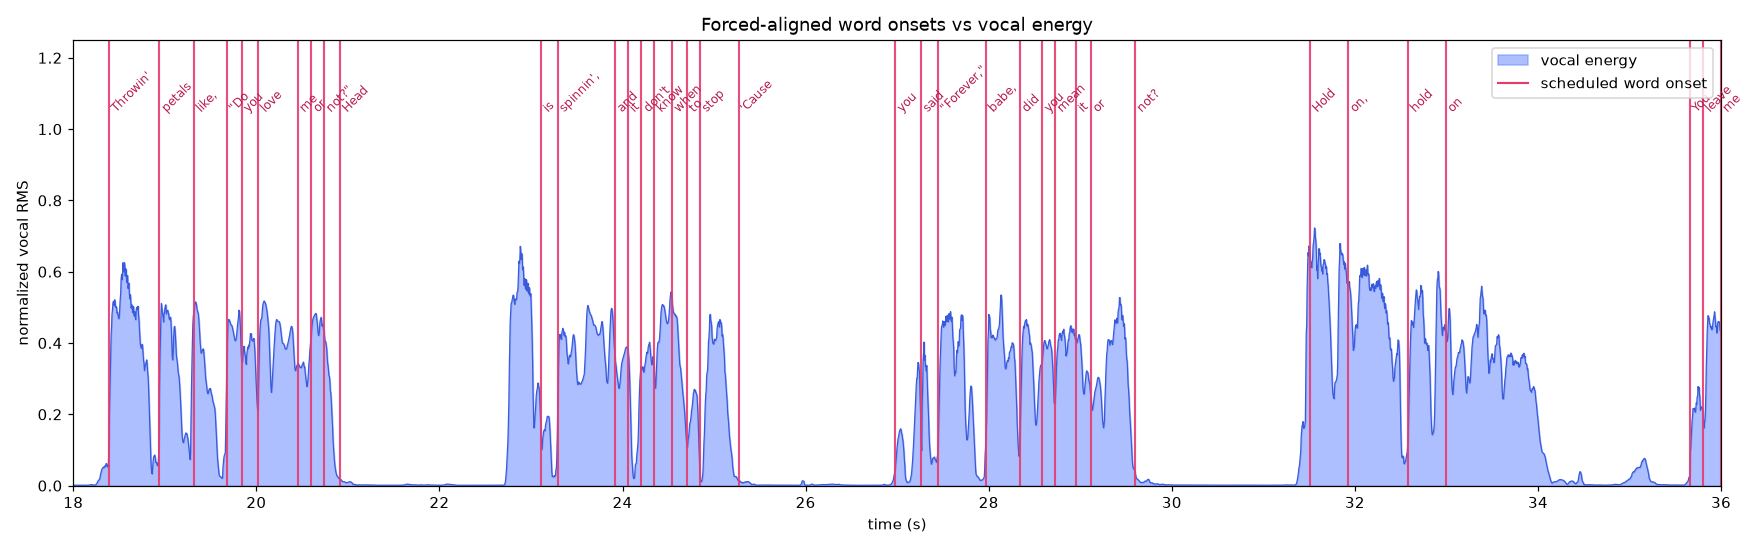
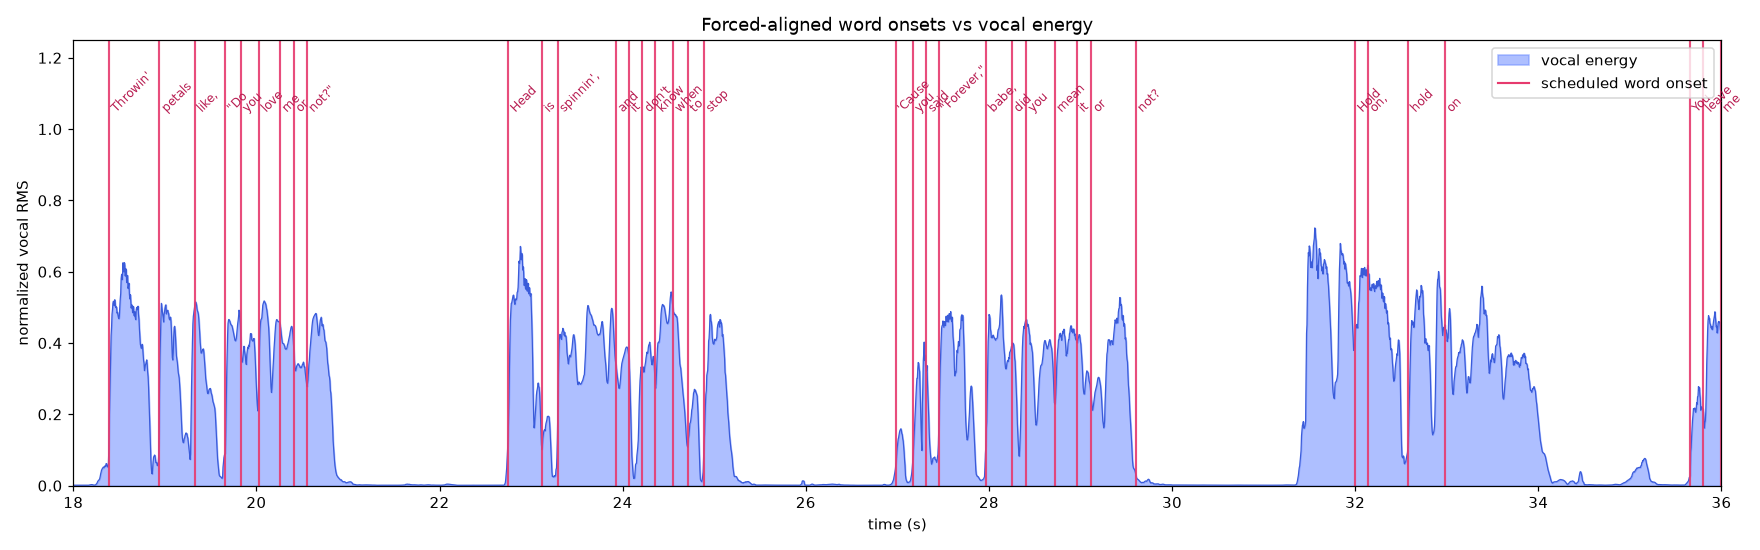
Anchor forced alignment on human LRC line times when available
- forced_align.windows_from_line_times: build per-line windows from synced LRC
  line timestamps (LRCLIB or .lrc) -- far more accurate than whisper anchors on
  fast rap / repeated choruses / fades
- analyze_song: --anchor auto (default) = LRC when synced, else whisper; adds lrc
- eval_lrc_lines.py: real-audio line-onset error vs human LRC (index-matched, with
  monotonic NW fallback) -- on the 4 real tracks line error dropped 2-4x
  (e.g. Hozier p90 25.6s -> 0.52s, Charli abs-median 1.95s -> 0.30s)
- Regenerate docs/alignment plots (LRC-anchored)

diff --git a/tools/eval_lrc_lines.py b/tools/eval_lrc_lines.py
@@ -1,0 +1,154 @@
+#!/usr/bin/env python3
+"""Real-audio line-onset accuracy vs human LRCLIB timestamps.
+
+There is no per-word ground truth for a real recording, but LRCLIB ships human-authored
+*line-level* synced timestamps. This compares the first-word start of each line in our
+forced-aligned word_schedule to the curated LRC line time -- a genuine (if line-grained
+and slightly noisy) real-audio reference. Positive error = our highlight is late.
+
+Usage:
+  python tools/eval_lrc_lines.py "Artist - Title.mp3"
+  python tools/eval_lrc_lines.py "Artist - Title.mp3" --schedule path/to/word_schedule.json
+"""
+
+from __future__ import annotations
+
+import argparse
+import json
+import re
+from collections import defaultdict
+from pathlib import Path
+
+import numpy as np
+import soundfile as sf
+
+from pipeline.lyrics_fetch import fetch_lyrics, merge_meta
+
+_LRC_RE = re.compile(r"\[(\d+):(\d+(?:\.\d+)?)\]")
+
+
+def _norm(text: str) -> str:
+    return " ".join(re.sub(r"[^a-z0-9 ]", " ", (text or "").lower()).split())
+
+
+def _lrc_lines(synced: str) -> list[tuple[float, str]]:
+    out: list[tuple[float, str]] = []
+    for raw in synced.splitlines():
+        m = _LRC_RE.match(raw.strip())
+        if not m:
+            continue
+        body = _LRC_RE.sub("", raw).strip()
+        if body:
+            out.append((int(m.group(1)) * 60 + float(m.group(2)), body))
+    return out
+
+
+def _schedule_line_starts(schedule: list[dict]) -> list[tuple[float, str]]:
+    by_line: dict[int, list[dict]] = defaultdict(list)
+    for w in schedule:
+        by_line[int(w["lineIndex"])].append(w)
+    out: list[tuple[float, str]] = []
+    for li in sorted(by_line):
+        words = sorted(by_line[li], key=lambda w: w["wordIndex"])
+        out.append((float(words[0]["start"]), " ".join(w["word"] for w in words)))
+    return out
+
+
+def _match_lines(lrc, sched):
+    """Pair LRC lines with schedule lines.
+
+    The schedule is built from the same ordered lyrics as the LRC, so when the counts
+    match we pair by index (correct even when choruses repeat identical lines). Otherwise
+    fall back to a monotonic Needleman-Wunsch match on normalized line text.
+    """
+    if len(lrc) == len(sched):
+        return [(lrc[i][0], sched[i][0]) for i in range(len(lrc))]
+
+    n, m = len(lrc), len(sched)
+    NEG = -1e9
+    dp = [[NEG] * (m + 1) for _ in range(n + 1)]
+    bt = [[0] * (m + 1) for _ in range(n + 1)]
+    dp[0][0] = 0
+    for i in range(1, n + 1):
+        dp[i][0] = -i; bt[i][0] = 1
+    for j in range(1, m + 1):
+        dp[0][j] = -j; bt[0][j] = 2
+    ltoks = [set(_norm(t).split()) for _, t in lrc]
+    stoks = [set(_norm(t).split()) for _, t in sched]
+    for i in range(1, n + 1):
+        for j in range(1, m + 1):
+            a, b = ltoks[i - 1], stoks[j - 1]
+            jac = len(a & b) / max(1, len(a | b))
+            diag = dp[i - 1][j - 1] + (jac if jac > 0.34 else -0.5)
+            up, left = dp[i - 1][j] - 1, dp[i][j - 1] - 1
+            best, d = diag, 0
+            if up > best: best, d = up, 1
+            if left > best: best, d = left, 2
+            dp[i][j], bt[i][j] = best, d
+    pairs = []
+    i, j = n, m
+    while i > 0 and j > 0:
+        if bt[i][j] == 0:
+            a, b = ltoks[i - 1], stoks[j - 1]
+            if len(a & b) / max(1, len(a | b)) > 0.34:
+                pairs.append((lrc[i - 1][0], sched[j - 1][0]))
+            i -= 1; j -= 1
+        elif bt[i][j] == 1:
+            i -= 1
+        else:
+            j -= 1
+    pairs.reverse()
+    return pairs
+
+
+def main() -> int:
+    ap = argparse.ArgumentParser(description="Line-onset accuracy vs LRCLIB")
+    ap.add_argument("audio", type=Path)
+    ap.add_argument("--schedule", type=Path)
+    ap.add_argument("--artist")
+    ap.add_argument("--title")
+    args = ap.parse_args()
+
+    sched_path = args.schedule or (
+        args.audio.parent / f"{args.audio.stem}.analysis" / "word_schedule.json"
+    )
+    schedule = json.loads(Path(sched_path).read_text(encoding="utf-8"))
+
+    with sf.SoundFile(str(args.audio)) as f:
+        dur = len(f) / f.samplerate
+    meta = merge_meta(args.audio, artist=args.artist, title=args.title)
+    res = fetch_lyrics(meta, dur)
+    if not res or not res.synced_lrc:
+        print(json.dumps({"error": "no synced LRC from LRCLIB", "track": meta.title}))
+        return 1
+
+    lrc = _lrc_lines(res.synced_lrc)
+    sched = _schedule_line_starts(schedule)
+    pairs = _match_lines(lrc, sched)
+    if not pairs:
+        print(json.dumps({"error": "no line matches", "lrc_lines": len(lrc)}))
+        return 1
+
+    err = np.array([s - l for l, s in pairs])
+    ae = np.abs(err)
+    print(
+        json.dumps(
+            {
+                "track": f"{meta.artist} - {meta.title}",
+                "lrc_lines": len(lrc),
+                "matched_lines": len(pairs),
+                "signed_median_ms": round(float(np.median(err)) * 1000, 1),
+                "abs_median_ms": round(float(np.median(ae)) * 1000, 1),
+                "abs_mean_ms": round(float(np.mean(ae)) * 1000, 1),
+                "abs_p90_ms": round(float(np.percentile(ae, 90)) * 1000, 1),
+                "within_150ms_pct": round(100 * float(np.mean(ae <= 0.150)), 1),
+                "within_300ms_pct": round(100 * float(np.mean(ae <= 0.300)), 1),
+            },
+            indent=2,
+        )
+    )
+    return 0
+
+
+if __name__ == "__main__":
+    raise SystemExit(main())

diff --git a/tools/analyze_song.py b/tools/analyze_song.py
@@ -127,11 +127,21 @@ def _forced_schedule(
     from pipeline.forced_align import (
         asr_anchor_word_times,
         build_forced_schedule,
+        windows_from_line_times,
         windows_from_word_times,
     )
 
     line_windows = None
-    if anchor == "whisper":
+    used = "global"
+
+    # Prefer human LRC line timestamps when present (most accurate anchor).
+    if anchor in ("auto", "lrc"):
+        line_windows = windows_from_line_times(timed_lines, duration)
+        if line_windows is not None:
+            used = "lrc"
+
+    # Otherwise (or for plain lyrics in auto mode) anchor each line by whisper.
+    if line_windows is None and anchor in ("auto", "whisper"):
         asr = _asr_words(
             out_dir, stem_paths, envelopes, model_size=model_size, device=device, force=force
         )
@@ -142,10 +152,11 @@ def _forced_schedule(
                 flat_tokens.append(tok)
                 owner.append((li, wi))
         word_times = asr_anchor_word_times(flat_tokens, asr, duration)
-        line_windows = windows_from_word_times(
-            word_times, owner, len(timed_lines), duration
-        )
+        line_windows = windows_from_word_times(word_times, owner, len(timed_lines), duration)
+        if line_windows is not None:
+            used = "whisper"
 
+    print(f"  anchor: {used}")
     return build_forced_schedule(
         timed_lines,
         stem_paths["vocals"],
@@ -186,7 +197,7 @@ def _build_background_cmd(args: argparse.Namespace, audio_path: Path) -> list[st
         cmd += ["--device", args.device]
     if args.align != "forced":
         cmd += ["--align", args.align]
-    if args.anchor != "whisper":
+    if args.anchor != "auto":
         cmd += ["--anchor", args.anchor]
     if args.lyric_lead != 0.02:
         cmd += ["--lyric-lead", str(args.lyric_lead)]
@@ -218,10 +229,11 @@ def main() -> int:
     )
     parser.add_argument(
         "--anchor",
-        default="whisper",
-        choices=["whisper", "none"],
-        help="Forced-align anchoring: 'whisper' windows each line by ASR (robust on long "
-        "songs, default); 'none' runs one global pass (best for short clips).",
+        default="auto",
+        choices=["auto", "lrc", "whisper", "none"],
+        help="Forced-align anchoring: 'auto' (default) uses human LRC line times when the "
+        "lyrics are synced, else whisper; 'lrc' forces LRC times; 'whisper' windows each "
+        "line by ASR; 'none' runs one global pass (best for short clips).",
     )
     parser.add_argument("--force", action="store_true", help="Re-run even if manifest exists")
     parser.add_argument(

diff --git a/tools/pipeline/forced_align.py b/tools/pipeline/forced_align.py
@@ -253,6 +253,45 @@ def asr_anchor_word_times(
     return out
 
 
+def windows_from_line_times(
+    timed_lines: list[dict],
+    duration: float,
+    *,
+    pad_before: float = 0.8,
+    pad_after: float = 0.5,
+) -> list[tuple[float, float]] | None:
+    """Per-line windows from human LRC line timestamps (the most accurate anchor).
+
+    Returns ``None`` if the lyrics aren't synced (no usable line times), so the caller
+    can fall back to whisper anchoring.
+    """
+    times = [float(l.get("time") or 0.0) for l in timed_lines]
+    synced = [i for i, l in enumerate(timed_lines) if (l.get("time") or 0) > 0 and not l.get("hintEstimated")]
+    if len(synced) < max(2, len(timed_lines) // 2):
+        return None
+
+    # Fill any non-synced lines by interpolating between known neighbors.
+    for i in range(len(times)):
+        if i not in synced:
+            prev = max((j for j in synced if j < i), default=None)
+            nxt = min((j for j in synced if j > i), default=None)
+            if prev is not None and nxt is not None:
+                times[i] = times[prev] + (times[nxt] - times[prev]) * (i - prev) / (nxt - prev)
+            elif prev is not None:
+                times[i] = times[prev]
+            elif nxt is not None:
+                times[i] = max(0.0, times[nxt] - 1.0)
+
+    windows: list[tuple[float, float]] = []
+    for i in range(len(times)):
+        t0 = times[i]
+        t1 = times[i + 1] if i + 1 < len(times) else duration
+        lo = max(0.0, t0 - pad_before)
+        hi = min(duration, max(t1, t0 + 0.5) + pad_after)
+        windows.append((lo, hi))
+    return windows
+
+
 def windows_from_word_times(
     word_times: list[float],
     owner: list[tuple[int, int]],

diff --git a/README.md b/README.md
@@ -83,12 +83,18 @@ python analyze_song.py "../Artist - Title.mp3" --lyrics "../lyrics.txt" --align 
 # nudge all forced onsets a touch earlier/later (seconds): --lyric-lead 0.0
 ```
 
-**Anchoring (`--anchor`, default `whisper`).** A single global forced-alignment pass
-drifts on long, melismatic songs with repeated choruses. By default the forced path first
-runs faster-whisper, does a global monotonic word match (repeat-safe), and **forced-aligns
-each lyric line within its own short audio window** — the same idea as WhisperX. Use
-`--anchor none` for one global pass (best for short, clean clips like the validation
-fixture below).
+**Anchoring (`--anchor`, default `auto`).** A single global forced-alignment pass drifts
+on long songs (repeated choruses, fast rap, fades). Each lyric line is instead aligned
+within its own short audio window. The window comes from:
+- `auto` (default): **human LRC line timestamps** when the lyrics are synced (`.lrc` or
+  LRCLIB) — the most accurate anchor — otherwise whisper.
+- `lrc`: force LRC line times.
+- `whisper`: faster-whisper + a global monotonic, repeat-safe word match (for plain lyrics).
+- `none`: one global pass (best for short, clean clips like the validation fixture).
+
+Words are then refined onto the actual vocal-energy onsets inside each window, so line
+*and* word timing track the singer. `tools/eval_lrc_lines.py` reports real-audio
+line-onset error against the human LRC timestamps.
 
 Forced alignment writes the same `word_schedule.json` shape the browser already renders, so no UI change is needed. The chosen method is recorded in `manifest.json` under `lyrics.alignMethod`.
 
